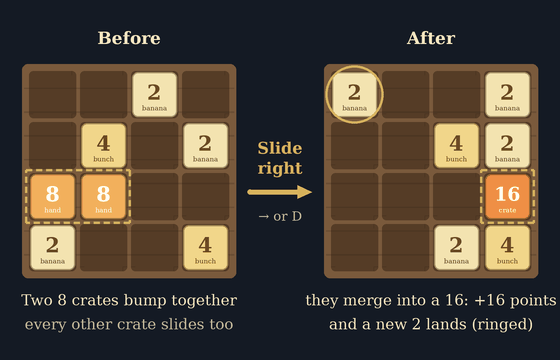
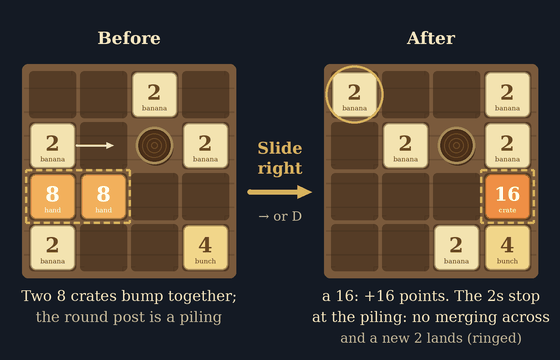
Banana Merge: 10 boards
Seven boards after the first three: oblong ones, pilings (posts crates stop
against and never merge across) and a slide limit, each goal checked with an
expectimax bot (11-97 % reach it). A board's goal reached gets a tick and opens
the next; the 4000-point score still clears the game. How to play shows a
piling.

Claude-Session: https://claude.ai/code/session_014UPf4sPaF6veCMxDbQcUBm

diff --git a/assets/games/merge.js b/assets/games/merge.js
@@ -3,11 +3,22 @@
 // crate lands after each move. Merges score their new number. The game ends when no slide changes the board; reach
 // the 2048 Golden Banana if you can. Three boards: 4 x 4 (classic), 5 x 5 (roomy), 3 x 3 (the hard one, to 256).
 // Crates are small meshes sharing one material per number (made when first needed), so a slide moves meshes and
-// never redraws a texture. def: { levels: [{ n, goal, name }], pass (score), points }
+// never redraws a texture. def: { levels: [{ n | rows + cols, goal, name, rocks, slides, note }], pass (score), points }
 // Oct 17: How to play (the rules + one slide worked through, howto/merge.png) and Restart (a new game on the same
-// board: two fresh crates, score and slides at 0; the board's best score stays as it was).
+// board: two fresh crates, score and slides at 0; the board's best score stays as it was). Ten boards: oblong ones,
+// pilings (fixed posts: a run of squares ends at one) and a slide limit; each board's goal reached is kept
+// (rebelAntsMergeGoal, a ✓ on the list) and offers the next board, while the score still clears the game.
 (function () {
-  const LEVELS = [{ n: 4, goal: 2048, name: 'The Dock' }, { n: 5, goal: 4096, name: 'The Big Dock' }, { n: 3, goal: 256, name: 'The Rowboat' }];
+  // Oct 17: ten boards, the first three as they were, then seven from easier to harder: { n (square) or rows + cols,
+  // goal, name, rocks: [[r, c]] pilings, slides: a slide limit, note: what the picker says about it }. The share of
+  // runs an expectimax bot gets to the goal (scratchpad agents/lvD/merge/sim.mjs, its own slide rules: shares.txt)
+  const LEVELS = [{ n: 4, goal: 2048, name: 'The Dock' }, { n: 5, goal: 4096, name: 'The Big Dock' }, { n: 3, goal: 256, name: 'The Rowboat' },
+    { rows: 3, cols: 4, goal: 512, name: 'The Jetty' }, { rows: 2, cols: 6, goal: 256, name: 'The Long Pier' },
+    { n: 4, goal: 1024, rocks: [[3, 3]], name: 'The Bait Shop', note: 'a corner piling' },
+    { n: 4, goal: 1024, rocks: [[0, 0], [3, 3]], name: 'The Boathouse', note: 'two corner pilings' },
+    { n: 4, goal: 1024, rocks: [[1, 1]], name: 'The Mooring', note: 'a piling inside' },
+    { n: 4, goal: 512, slides: 256, name: 'The Fish Market', note: 'in 256 slides' },
+    { n: 3, goal: 512, name: 'The Lifeboat' }];
   const TILE = { 2: '#f3e3b0', 4: '#f1d68a', 8: '#f2b05c', 16: '#ef8f45', 32: '#ea6c3c', 64: '#e2462e', 128: '#ead061', 256: '#e8c94c', 512: '#e4c03a', 1024: '#e2b827', 2048: '#ffd21a', 4096: '#9be35a', 8192: '#4ad0c8' };
   const NAMES = { 2: 'banana', 4: 'bunch', 8: 'hand', 16: 'crate', 32: 'barrel', 64: 'cart', 128: 'boat', 256: 'ship', 512: 'fleet', 1024: 'island', 2048: 'Golden Banana' };
   const SLIDE = .13;
@@ -15,12 +26,15 @@
   const G = {
     title: 'Banana Merge',
     howTo: { lines: [
-      'Slide every crate on the board one way: the arrows, W A S D, a swipe, or the arrow buttons.',
-      'Two crates with the same number that bump together merge into one crate with their sum, and the new number is added to your score.',
-      'After every slide a new crate (a 2, now and then a 4) lands on an empty square.',
-      'The run ends when no slide can change the board. Bank it ends it any time and keeps your score; the goal crate (2048 on The Dock) is there to chase.',
-      'Tip: keep your biggest crate in one corner and slide mostly two ways, so it never has to leave.'],
-      img: 'howto/merge.png', caption: 'Slide right: the two 8 crates merge into a 16 (+16 points), the 2s close up, and a new 2 lands.' },
+      'Merge crates into bigger ones until you make the board\'s goal crate (2048 on The Dock). Every merge adds the new crate\'s number to your score.',
+      'A slide moves every crate on the board as far as it can go one way: up, down, left or right.',
+      'Two crates with the same number that bump together merge into one with their sum. A crate merges once per slide: four 2s in a row make two 4s, not an 8.',
+      'After every slide a new crate lands on a free square: a 2, now and then a 4.',
+      'Ten boards of different shapes. Some have pilings, round posts that never move: crates stop against them and never merge across them. The Fish Market closes after 256 slides.',
+      'The run ends when no slide can change the board (or the slides run out). Bank it ends it at any time and keeps your score; a ✓ on the board list marks a goal reached.',
+      'Slide with the arrows or W A S D, a swipe, or the arrow buttons. Restart begins the same board again with two fresh crates.',
+      'Tip: keep your biggest crate in one corner and slide mostly two ways (say down and left), so it never has to leave its corner.'],
+      img: 'howto/merge.png', caption: 'Slide right: the two 8 crates merge into a 16 (+16 points), the left 2 stops against the piling (no merging across it), and a new 2 lands.' },
     start(ctx) {
       const B = ctx.B, H = ctx.HUD, scene = ctx.scene, def = ctx.def;
       const LV = def.levels || LEVELS;
@@ -41,29 +55,42 @@
         if (NAMES[v]) { g.font = `${Math.round(Z * .12)}px Georgia, serif`; g.fillStyle = v <= 4 ? 'rgba(90,60,20,.8)' : 'rgba(255,255,255,.9)'; g.fillText(NAMES[v], Z / 2, Z * .79); } t.update();
         const m = new B.StandardMaterial('mgTileMat' + v, scene); m.diffuseTexture = t; m.emissiveTexture = t; m.emissiveColor = new B.Color3(.7, .7, .7); m.diffuseColor = new B.Color3(.5, .5, .5); m.specularColor = new B.Color3(0, 0, 0);
         return (tileMats[v] = m); }
-      let bd = null; // { k, n, P, tiles: [{ id, v, r, c, fr, fc, born, pop, merged, gone, mesh }], score, best, moves, won, top }
+      let bd = null; // { k, R, C, P, rock, runs, posts, limit, tiles: [{ id, v, r, c, fr, fc, born, pop, merged, gone, mesh }], score, best, moves, won, top }
       const st = { phase: 'pick', t: 0, anim: 0, swipe: null, pendingSpawn: false };
       let nextId = 1;
-      const bestKey = k => 'rebelAntsMergeBest:' + (def.id || 'merge') + ':' + k;
-      const cellX = c => -S / 2 + MG + c * (bd.P + GAPW) + bd.P / 2, cellZ = r => S / 2 - MG - r * (bd.P + GAPW) - bd.P / 2;
+      const bestKey = k => 'rebelAntsMergeBest:' + (def.id || 'merge') + ':' + k, goalKey = k => 'rebelAntsMergeGoal:' + (def.id || 'merge') + ':' + k;
+      // squares from the board's middle (a board R rows deep and C wide; the longer side fills the table)
+      const cellX = c => -(bd.C * bd.P + (bd.C - 1) * GAPW) / 2 + c * (bd.P + GAPW) + bd.P / 2, cellZ = r => (bd.R * bd.P + (bd.R - 1) * GAPW) / 2 - r * (bd.P + GAPW) - bd.P / 2;
+      const pilingM = mat('piling', [.24, .15, .08], [.05, .03, .015]), ropeM = mat('rope', [.62, .5, .3], [.12, .1, .06]);
       function tileMesh(t) { const m = keep(B.MeshBuilder.CreatePlane('mgCrate', { size: bd.P }, scene)); m.rotation.x = Math.PI / 2; m.material = tileMat(t.v); m.position.set(cellX(t.c), TY + .02, cellZ(t.r)); return m; }
-      function dropTile(t) { if (t.mesh) { const i = nodes.indexOf(t.mesh); if (i >= 0) nodes.splice(i, 1); t.mesh.dispose(); t.mesh = null; } }
-      function spawn() { const n = bd.n, free = []; for (let r = 0; r < n; r++) for (let c = 0; c < n; c++) if (!bd.tiles.some(t => t.r === r && t.c === c)) free.push([r, c]); if (!free.length) return false;
+      const dropMesh = m => { const i = nodes.indexOf(m); if (i >= 0) nodes.splice(i, 1); m.dispose(); };
+      function dropTile(t) { if (t.mesh) { dropMesh(t.mesh); t.mesh = null; } }
+      function spawn() { const free = []; for (let r = 0; r < bd.R; r++) for (let c = 0; c < bd.C; c++) if (!bd.rock[r * bd.C + c] && !bd.tiles.some(t => t.r === r && t.c === c)) free.push([r, c]); if (!free.length) return false;
         const [r, c] = free[Math.floor(Math.random() * free.length)], t = { id: nextId++, v: Math.random() < .9 ? 2 : 4, r, c, fr: r, fc: c, born: 0, pop: 0 }; t.mesh = tileMesh(t); t.mesh.scaling.setAll(.4); bd.tiles.push(t); return true; }
       function drawBoard() { const g = tex.getContext(), k = TEX / S; g.fillStyle = '#7a5a3c'; g.fillRect(0, 0, TEX, TEX); g.fillStyle = 'rgba(0,0,0,.13)'; for (let i = 0; i < 9; i++) g.fillRect(0, i * TEX / 9, TEX, 2);
-        for (let r = 0; r < bd.n; r++) for (let c = 0; c < bd.n; c++) { const x = (cellX(c) + S / 2 - bd.P / 2) * k, y = (S / 2 - cellZ(r) - bd.P / 2) * k; g.fillStyle = 'rgba(40,24,12,.45)'; rr(g, x, y, bd.P * k, bd.P * k, 9); g.fill(); }
+        for (let r = 0; r < bd.R; r++) for (let c = 0; c < bd.C; c++) { if (bd.rock[r * bd.C + c]) continue; const x = (cellX(c) + S / 2 - bd.P / 2) * k, y = (S / 2 - cellZ(r) - bd.P / 2) * k; g.fillStyle = 'rgba(40,24,12,.45)'; rr(g, x, y, bd.P * k, bd.P * k, 9); g.fill(); }
         tex.update(); }
-      function clearTiles() { if (bd) bd.tiles.forEach(dropTile); }
-      function build(k) { const L = LV[k]; let best = 0; try { best = Number(localStorage.getItem(bestKey(k))) || 0; } catch (e) {}
-        clearTiles(); bd = { k, n: L.n, goal: L.goal, P: (S - 2 * MG - (L.n - 1) * GAPW) / L.n, tiles: [], score: 0, best, moves: 0, won: false, top: 2 };
+      function clearTiles() { if (bd) { bd.tiles.forEach(dropTile); bd.posts.forEach(dropMesh); } }
+      function build(k) { const L = LV[k], R = L.rows || L.n, C = L.cols || L.n, M = Math.max(R, C); let best = 0; try { best = Number(localStorage.getItem(bestKey(k))) || 0; } catch (e) {}
+        clearTiles(); bd = { k, R, C, goal: L.goal, P: (S - 2 * MG - (M - 1) * GAPW) / M, rock: new Uint8Array(R * C), runs: [[], [], [], []], posts: [], limit: L.slides || 0, tiles: [], score: 0, best, moves: 0, won: false, top: 2 };
+        for (const [r, c] of L.rocks || []) bd.rock[r * C + c] = 1;
+        // the runs of squares a slide moves crates along (0 up, 1 right, 2 down, 3 left), each from the end the crates
+        // slide to; a piling ends a run, so crates stop against it and never merge across it
+        for (let d = 0; d < 4; d++) { const lines = d % 2 === 0 ? Array.from({ length: C }, (_, c) => Array.from({ length: R }, (_, j) => [d === 0 ? j : R - 1 - j, c])) : Array.from({ length: R }, (_, r) => Array.from({ length: C }, (_, j) => [r, d === 3 ? j : C - 1 - j]));
+          for (const l of lines) { let run = []; for (const [r, c] of l) { if (bd.rock[r * C + c]) { if (run.length) bd.runs[d].push(run); run = []; } else run.push([r, c]); } if (run.length) bd.runs[d].push(run); } }
+        for (const [r, c] of L.rocks || []) { // a piling: a wooden post with a rope round it
+          const post = keep(B.MeshBuilder.CreateCylinder('mgPiling', { diameter: bd.P * .7, height: .3, tessellation: 20 }, scene)); post.material = pilingM; post.position.set(cellX(c), TY + .15, cellZ(r));
+          const rope = keep(B.MeshBuilder.CreateTorus('mgRope', { diameter: bd.P * .72, thickness: .045, tessellation: 24 }, scene)); rope.material = ropeM; rope.position.set(cellX(c), TY + .2, cellZ(r)); bd.posts.push(post, rope); }
         drawBoard(); spawn(); spawn(); ctx.player.place(0, cam[2] - 1.6, 0); info(); }
-      const info = () => H.info(bd ? `${LV[bd.k].name} · ${bd.n} × ${bd.n} · best crate ${bd.top} · slides ${bd.moves} · best score ${bd.best}` : 'Pick a board');
-      function canMove() { const n = bd.n, at = (r, c) => bd.tiles.find(t => t.r === r && t.c === c); if (bd.tiles.length < n * n) return true;
-        for (let r = 0; r < n; r++) for (let c = 0; c < n; c++) { const a = at(r, c); if (c + 1 < n && at(r, c + 1).v === a.v) return true; if (r + 1 < n && at(r + 1, c).v === a.v) return true; } return false; }
+      const info = () => H.info(bd ? `${LV[bd.k].name} · ${bd.C} × ${bd.R} · goal ${bd.goal} · best crate ${bd.top} · slides ${bd.limit ? `${bd.moves} of ${bd.limit}` : bd.moves} · best score ${bd.best}` : 'Pick a board');
+      function canMove() { // a slide changes the board: a crate with a free square ahead in its run, or two equal crates that meet
+        for (const runs of bd.runs) for (const L of runs) { let gap = false, prev = 0;
+          for (const [r, c] of L) { const t = bd.tiles.find(x => x.r === r && x.c === c); if (!t) { gap = true; continue; } if (gap || t.v === prev) return true; prev = t.v; } }
+        return false; }
       function move(dir) { // 0 up, 1 right, 2 down, 3 left
-        if (st.phase !== 'play' || st.anim > 0) return false; const n = bd.n; let moved = false, gained = 0;
+        if (st.phase !== 'play' || st.anim > 0) return false; let moved = false, gained = 0;
         bd.tiles.forEach(t => { t.fr = t.r; t.fc = t.c; t.merged = false; });
-        for (let i = 0; i < n; i++) { const L = []; for (let j = 0; j < n; j++) L.push(dir === 0 ? [j, i] : dir === 2 ? [n - 1 - j, i] : dir === 3 ? [i, j] : [i, n - 1 - j]);
+        for (const L of bd.runs[dir]) {
           const ts = L.map(([r, c]) => bd.tiles.find(t => t.r === r && t.c === c && !t.gone)).filter(Boolean); let w = 0, last = null;
           for (const t of ts) { if (last && last.v === t.v && !last.merged) { t.r = last.r; t.c = last.c; t.gone = true; last.v *= 2; last.merged = true; gained += last.v; moved = true; bd.top = Math.max(bd.top, last.v); continue; }
             const [r, c] = L[w++]; if (t.r !== r || t.c !== c) moved = true; t.r = r; t.c = c; last = t; } }
@@ -75,21 +102,24 @@
         bd.tiles.filter(t => t.gone).forEach(dropTile); bd.tiles = bd.tiles.filter(t => !t.gone);
         bd.tiles.forEach(t => { t.fr = t.r; t.fc = t.c; if (t.merged) { t.pop = 1; t.mesh.material = tileMat(t.v); } t.merged = false; t.mesh.position.set(cellX(t.c), TY + .02, cellZ(t.r)); });
         if (st.pendingSpawn) { st.pendingSpawn = false; spawn(); }
-        if (bd.top >= bd.goal && !bd.won) { bd.won = true; ctx.sound('gamewin'); H.msg(NAMES[bd.goal] || String(bd.goal), 1600, 'you reached the goal: keep going or bank it'); }
-        if (!canMove()) end('No more slides'); }
-      function end(reason) { if (st.phase !== 'play') return; st.phase = 'over'; st.wt = 0; pads.style.display = 'none'; if (bd.score > bd.best) { bd.best = bd.score; try { localStorage.setItem(bestKey(bd.k), String(bd.score)); } catch (e) {} } ctx.sound(bd.top >= bd.goal ? 'gamewin' : 'thock'); H.msg(reason, 1600, `${bd.score} points`); }
+        if (bd.top >= bd.goal && !bd.won) { bd.won = true; try { localStorage.setItem(goalKey(bd.k), '1'); } catch (e) {} ctx.sound('gamewin'); H.msg(NAMES[bd.goal] || String(bd.goal), 1600, 'you reached the goal: keep going or bank it'); }
+        if (!canMove()) end('No more slides'); else if (bd.limit && bd.moves >= bd.limit) end('Out of slides'); }
+      function end(reason) { if (st.phase !== 'play') return; st.phase = 'over'; st.wt = 0; pads.style.display = 'none'; if (bd.score > bd.best) { bd.best = bd.score; try { localStorage.setItem(bestKey(bd.k), String(bd.score)); } catch (e) {} } ctx.sound(bd.top >= bd.goal ? 'gamewin' : 'thock'); H.msg(reason, 1600, `${bd.score} points`); info(); }
       const hud = document.getElementById('gameHud');
       const pick = document.createElement('div');
-      pick.style.cssText = 'position:absolute;left:50%;top:50%;transform:translate(-50%,-50%);width:min(380px,90vw);background:rgba(26,16,6,.95);border:1px solid rgba(240,200,80,.6);border-radius:14px;padding:16px;text-align:center;pointer-events:auto;font:15px/1.4 system-ui,sans-serif;color:#eee';
-      pick.innerHTML = `<div style="font:800 13px/1.2 system-ui,sans-serif;letter-spacing:.14em;text-transform:uppercase;color:#ffd35a;margin-bottom:10px">Banana Merge</div><div style="margin-bottom:12px;color:#bbb">Slide the crates; equal ones merge. How far can you get?</div>`
-        + `<div style="display:grid;grid-template-columns:repeat(3,1fr);gap:8px">${LV.map((L, k) => { let best = 0; try { best = Number(localStorage.getItem(bestKey(k))) || 0; } catch (e) {} return `<button type="button" data-k="${k}" style="padding:8px 2px;border-radius:9px;border:1px solid #ffd35a;background:rgba(255,255,255,.05);color:#fff;font:700 15px system-ui,sans-serif;cursor:pointer">${L.name}<div style="font:11px system-ui;opacity:.75">${L.n}×${L.n}${best ? ` · best ${best}` : ''}</div></button>`; }).join('')}</div>`;
+      const wide = LV.length > 6 && innerWidth >= 600; // ten boards: five a row on wide screens
+      pick.style.cssText = 'position:absolute;left:50%;top:50%;transform:translate(-50%,-50%);width:min(' + (wide ? 600 : 400) + 'px,92vw);background:rgba(26,16,6,.95);border:1px solid rgba(240,200,80,.6);border-radius:14px;padding:16px;text-align:center;pointer-events:auto;font:15px/1.4 system-ui,sans-serif;color:#eee';
+      pick.innerHTML = `<div style="font:800 13px/1.2 system-ui,sans-serif;letter-spacing:.14em;text-transform:uppercase;color:#ffd35a;margin-bottom:10px">Banana Merge</div><div style="margin-bottom:12px;color:#bbb">Slide the crates; equal ones merge. Reach each board's goal crate.</div>`
+        + `<div style="display:grid;grid-template-columns:repeat(${wide ? 5 : LV.length > 6 ? 2 : 3},1fr);gap:8px">${LV.map((L, k) => { let best = 0, done = false; try { best = Number(localStorage.getItem(bestKey(k))) || 0; done = !!localStorage.getItem(goalKey(k)); } catch (e) {} const n = (L.rocks || []).length;
+          return `<button type="button" data-k="${k}" style="padding:8px 2px;border-radius:9px;border:1px solid #ffd35a;background:${done ? 'rgba(255,211,90,.18)' : 'rgba(255,255,255,.05)'};color:#fff;font:700 14px system-ui,sans-serif;cursor:pointer">${k + 1}. ${L.name}${done ? ' ✓' : ''}<div style="font:11px system-ui;opacity:.78">${L.cols || L.n}×${L.rows || L.n} · to ${L.goal}${L.note ? ` · ${L.note}` : n ? ` · ${n} piling${n > 1 ? 's' : ''}` : L.slides ? ` · in ${L.slides} slides` : ''}${best ? ` · best ${best}` : ''}</div></button>`; }).join('')}</div>`
+        + `<div style="margin-top:10px;font-size:12px;color:#998">Keys ${LV.length > 9 ? '1-9 and 0' : '1-' + LV.length} pick a board · ✓ goal reached</div>`;
       pick.querySelectorAll('button[data-k]').forEach(b => b.onclick = (e) => { e.stopPropagation(); b.blur(); choose(+b.dataset.k); });
       const pads = document.createElement('div');
       pads.style.cssText = 'position:absolute;bottom:62px;right:16px;display:none;grid-template-columns:repeat(3,48px);grid-template-rows:repeat(2,42px);gap:5px;pointer-events:auto';
       const pad = (t, area, fn) => { const b = document.createElement('button'); b.type = 'button'; b.textContent = t; b.style.cssText = `grid-area:${area};border-radius:8px;border:1px solid #e6b84a;background:rgba(28,18,6,.85);color:#fff3cf;font:700 18px system-ui;cursor:pointer`; b.onclick = (e) => { e.stopPropagation(); b.blur(); fn(); }; pads.appendChild(b); return b; };
       pad('↑', '1 / 2', () => move(0)); pad('←', '2 / 1', () => move(3)); pad('↓', '2 / 2', () => move(2)); pad('→', '2 / 3', () => move(1));
       pad('Bank it', '1 / 3', () => end('Banked')).style.font = '700 12px system-ui';
-      function choose(k) { if (st.phase !== 'pick') return; pick.remove(); st.phase = 'play'; build(k); pads.style.display = 'grid'; H.score(0); H.msg(LV[k].name, 1000, `merge up to ${LV[k].goal}`); }
+      function choose(k) { if (st.phase !== 'pick') return; pick.remove(); st.phase = 'play'; build(k); pads.style.display = 'grid'; H.score(0); H.msg(LV[k].name, 1000, `merge up to ${LV[k].goal}${LV[k].slides ? ` in ${LV[k].slides} slides` : ''}`); }
       hud.append(pick, pads);
       const cam = [0, TY + 5.3, -3.0], at = [0, TY, -.28];
       ctx.player.place(0, cam[2] - 1.6, 0); ctx.look(cam, at, def.fov || .8); // the player waits behind the camera, out of the picture
@@ -103,8 +133,10 @@
             for (const t of bd.tiles) { if (!t.mesh) continue; t.mesh.position.x = cellX(t.fc + (t.c - t.fc) * e); t.mesh.position.z = cellZ(t.fr + (t.r - t.fr) * e); t.mesh.position.y = TY + (t.gone ? .015 : .02); }
             if (st.anim <= 0) settle(); }
           for (const t of bd.tiles) { if (!t.mesh) continue; let s = 1; if (t.born < 1) { t.born = Math.min(1, t.born + dt / .12); s = .4 + .6 * t.born; } if (t.pop > 0) { t.pop = Math.max(0, t.pop - dt / .14); s = 1 + .1 * Math.sin(Math.PI * (1 - t.pop)); } if (t.mesh.scaling.x !== s) t.mesh.scaling.setAll(s); }
-          if (st.phase === 'over' && (st.wt += dt) > 1.8) { st.phase = 'done'; H.hint('');
-            ctx.finish({ score: bd.score, label: 'points', passed: bd.score >= (def.pass || 0), extra: `${LV[bd.k].name}: best crate ${bd.top}${NAMES[bd.top] ? ` (${NAMES[bd.top]})` : ''} after ${bd.moves} slides. Best score here ${bd.best}.` }); }
+          if (st.phase === 'over' && (st.wt += dt) > 1.8) { st.phase = 'done'; H.hint(''); const passed = bd.score >= (def.pass || 0);
+            // a board's goal reached below the pass mark: its own kicker and the next board (the score still clears)
+            ctx.finish({ score: bd.score, label: 'points', passed, kicker: bd.won && !passed ? 'Goal reached' : undefined, next: bd.won && bd.k + 1 < LV.length ? bd.k + 1 : undefined,
+              extra: `${LV[bd.k].name}: best crate ${bd.top}${NAMES[bd.top] ? ` (${NAMES[bd.top]})` : ''} after ${bd.moves} slide${bd.moves === 1 ? '' : 's'}${bd.won ? ', the goal reached' : `; the goal is ${bd.goal}`}. Best score here ${bd.best}.` }); }
         },
         key(e, down) {
           if (!down || e.repeat) return; const k = e.key.toLowerCase();
